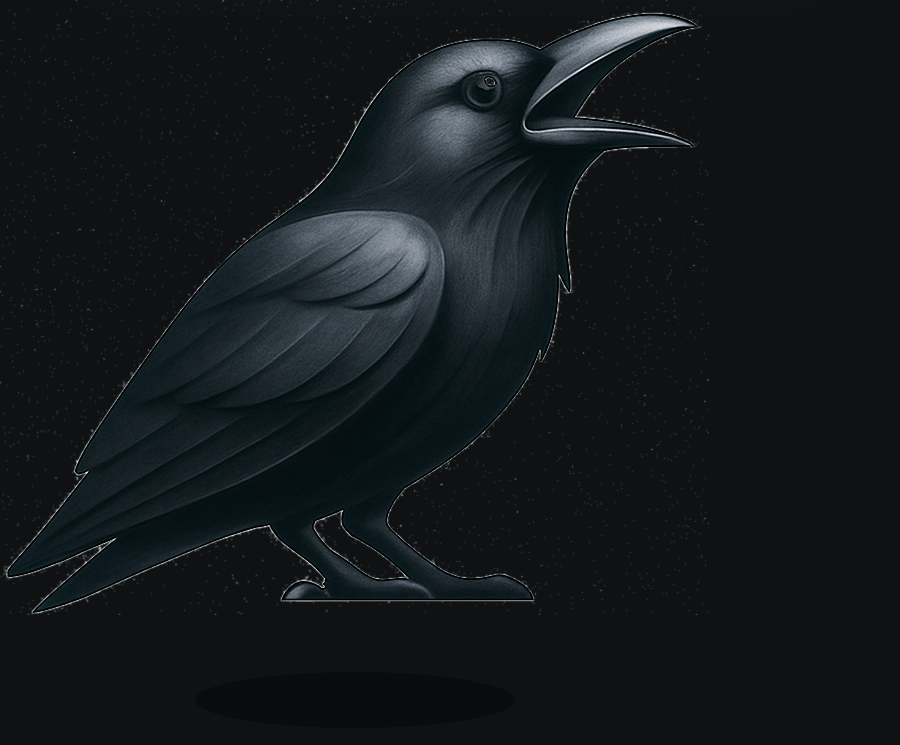
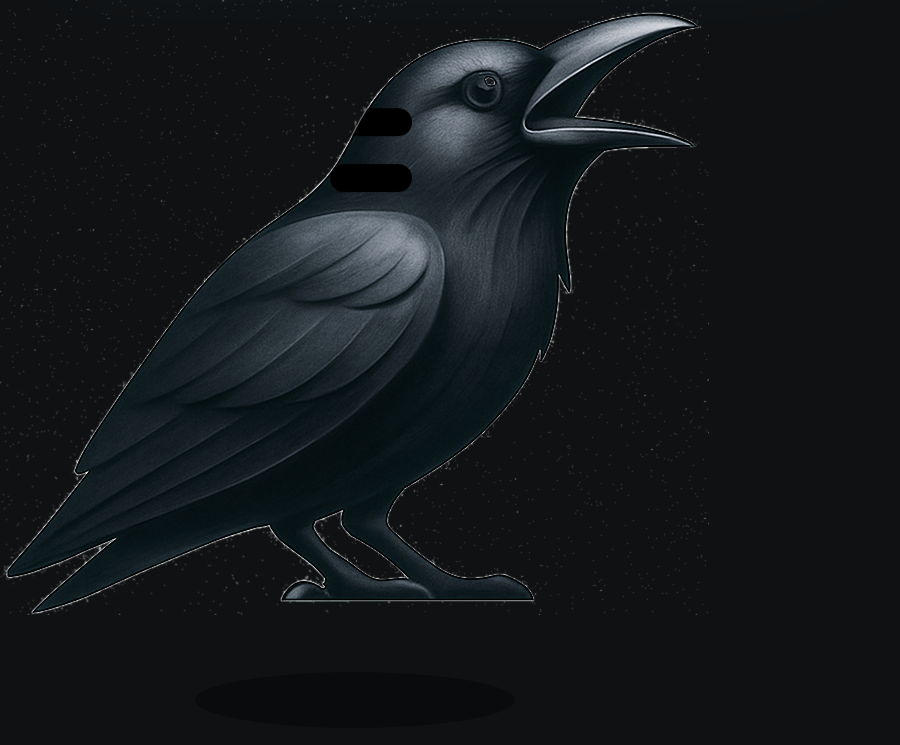
feat(blink): eyelids slide toward center with slight overlap; tuned easing and timing for natural closure (#13)

Changed region(s): [[0.3733, 0.2161, 0.4667, 0.2779], [0.3733, 0.1235, 0.4667, 0.1852]]

diff --git a/frontend/src/lib/CrowRig.svelte b/frontend/src/lib/CrowRig.svelte
@@ -166,39 +166,52 @@
     const lo = svg.getElementById('EyelidLower');
     if (!up || !lo) return Promise.resolve();
 
-    // Ensure eyelids only: set transform origins and make visible during blink
+    // Ensure eyelids only: in-head, clipped, and animated via translate toward center
     up.style.transformBox = 'fill-box';
     lo.style.transformBox = 'fill-box';
-    up.style.transformOrigin = '50% 100%'; // center-bottom
-    lo.style.transformOrigin = '50% 0%';   // center-top
+    // Don't rely on scale; slide lids toward the eye line and slightly overlap to avoid a sliver
     up.style.opacity = '1';
     lo.style.opacity = '1';
 
-    const kf = [
-      { transform: 'scaleY(0)' },
-      { transform: 'scaleY(1)' },
-      { transform: 'scaleY(0)' }
+    // Distances tuned to the SVG geometry (each rect is 28px tall, stacked to meet at y=150)
+    const d = 14;       // half-lid travel toward the center line
+    const overlap = 1;  // 1px overlap at closure to avoid anti-aliased gap
+
+    const kfU = [
+      { transform: `translateY(${-d}px)` },
+      { transform: `translateY(${overlap}px)` },
+      { transform: `translateY(${-d}px)` }
+    ];
+    const kfL = [
+      { transform: `translateY(${d}px)` },
+      { transform: `translateY(${-overlap}px)` },
+      { transform: `translateY(${d}px)` }
     ];
 
-    const quick = 140;
-    const slow  = 220;
+    // Fast close, slight hold, natural open
+    const quick = 160; // ms (one-blink)
+    const slow  = 230; // ms (double-blink second pass)
+    const ease  = 'cubic-bezier(.4,.0,.2,1)'; // standard material-ish ease
 
-    const aU1 = track(up.animate(kf, { duration: quick, easing: 'ease-in-out', fill: 'none' }));
-    const aL1 = track(lo.animate(kf, { duration: quick, easing: 'ease-in-out', fill: 'none' }));
+    const aU1 = track(up.animate(kfU, { duration: quick, easing: ease, fill: 'none' }));
+    const aL1 = track(lo.animate(kfL, { duration: quick, easing: ease, fill: 'none' }));
 
-    // Occasional double-blink, tuned for corvid-like behavior (~18%)
+    // Occasional double-blink (~18%) with a short pause
     const maybeSecond = Math.random() < 0.18;
 
     return Promise.all([aU1.finished, aL1.finished]).then(async () => {
       if (maybeSecond) {
-        await new Promise(r => setTimeout(r, 60));
-        const aU2 = track(up.animate(kf, { duration: slow, easing: 'ease-in-out', fill: 'none' }));
-        const aL2 = track(lo.animate(kf, { duration: slow, easing: 'ease-in-out', fill: 'none' }));
+        await new Promise(r => setTimeout(r, 70));
+        const aU2 = track(up.animate(kfU, { duration: slow, easing: ease, fill: 'none' }));
+        const aL2 = track(lo.animate(kfL, { duration: slow, easing: ease, fill: 'none' }));
         await Promise.all([aU2.finished, aL2.finished]);
       }
       // Hide eyelids again (neutral)
       up.style.opacity = '0';
       lo.style.opacity = '0';
+      // Clear any residual transform to ensure clean neutral state
+      up.style.transform = '';
+      lo.style.transform = '';
     });
   }
 
